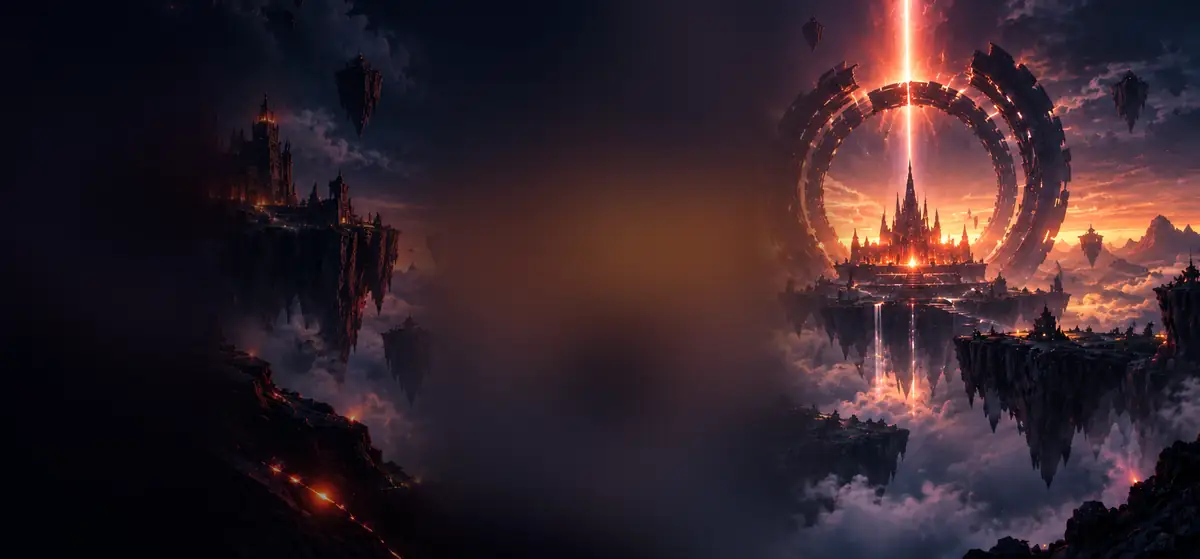
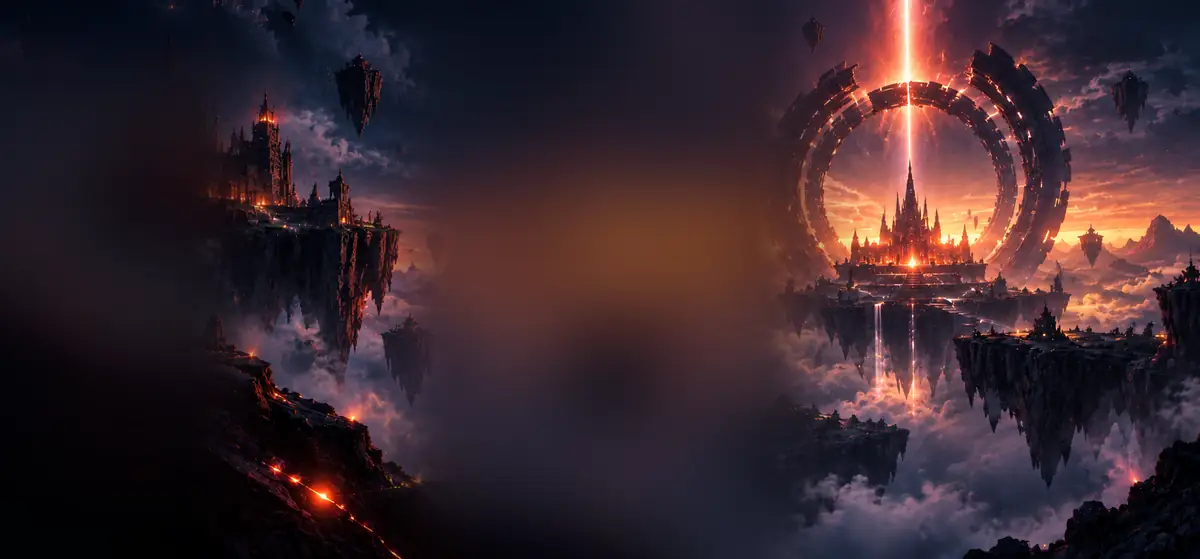
타이틀 배경: 왼쪽을 재우던 그라데이션을 끈다
지운 자리에 검은 자국이 남던 옛 시안 때문에 넣은 것인데, 풍경이 꽉 찬
새 시안에서는 멀쩡한 성까지 덮어 오히려 화면이 비어 보였다.

없앤 게 아니라 기본값을 0 으로 내렸다 — 다시 필요하면
RAMP=0.6 DIM=0.7 로 켤 수 있다.

diff --git a/scripts/erase-mockup-ui.js b/scripts/erase-mockup-ui.js
@@ -45,7 +45,11 @@ async function main() {
   // 지운 자리만 검게 눌러 두면 남은 풍경과 사이에 세로 경계가 생겨
   // "검은 네모" 로 읽힌다. 왼쪽 전체를 서서히 재우면 그 경계가 사라지고,
   // 오른쪽 포탈만 밝게 남아 시선이 그리로 간다.
-  const RAMP = 0.62;   // 이 비율까지 어둡게 재운다(오른쪽은 그대로)
+  // 지운 자리가 커서 검은 자국이 남는 시안일 때만 켠다. 풍경이 꽉 찬
+  // 시안에서는 멀쩡한 성까지 덮어 버려 오히려 화면이 비어 보인다.
+  //   RAMP=0.6 DIM=0.7 node scripts/erase-mockup-ui.js ...
+  const RAMP = Number(process.env.RAMP ?? 0);      // 이 비율까지 어둡게 재운다
+  const DIM = Number(process.env.DIM ?? 0);        // 왼쪽 끝에서 얼마나 어둡게
 
   const raw = await sharp(src)
     .extract({ left: 0, top: TOP_BAR, width: W, height: H })
@@ -55,7 +59,7 @@ async function main() {
   const ramp = Buffer.from(
     `<svg xmlns="http://www.w3.org/2000/svg" width="${W}" height="${H}">` +
     `<defs><linearGradient id="g" x1="0" y1="0" x2="1" y2="0">` +
-    `<stop offset="0%" stop-color="#05060f" stop-opacity="0.72"/>` +
+    `<stop offset="0%" stop-color="#05060f" stop-opacity="${DIM}"/>` +
     `<stop offset="${Math.round(RAMP * 100)}%" stop-color="#05060f" stop-opacity="0"/>` +
     `</linearGradient></defs>` +
     `<rect width="${W}" height="${H}" fill="url(#g)"/></svg>`);
